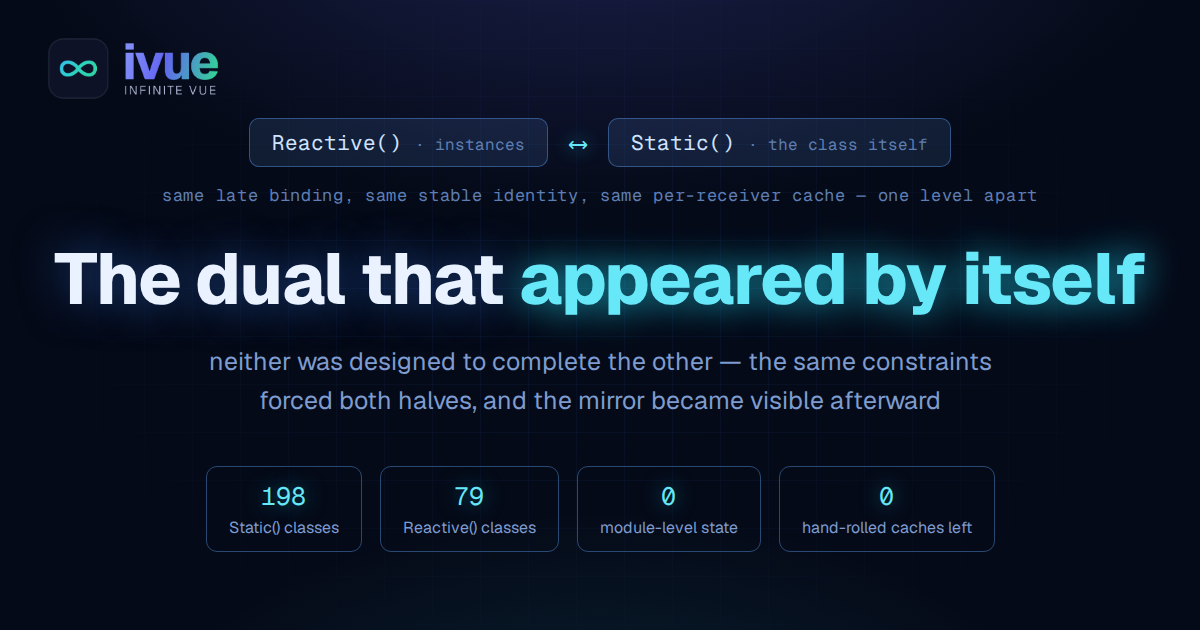
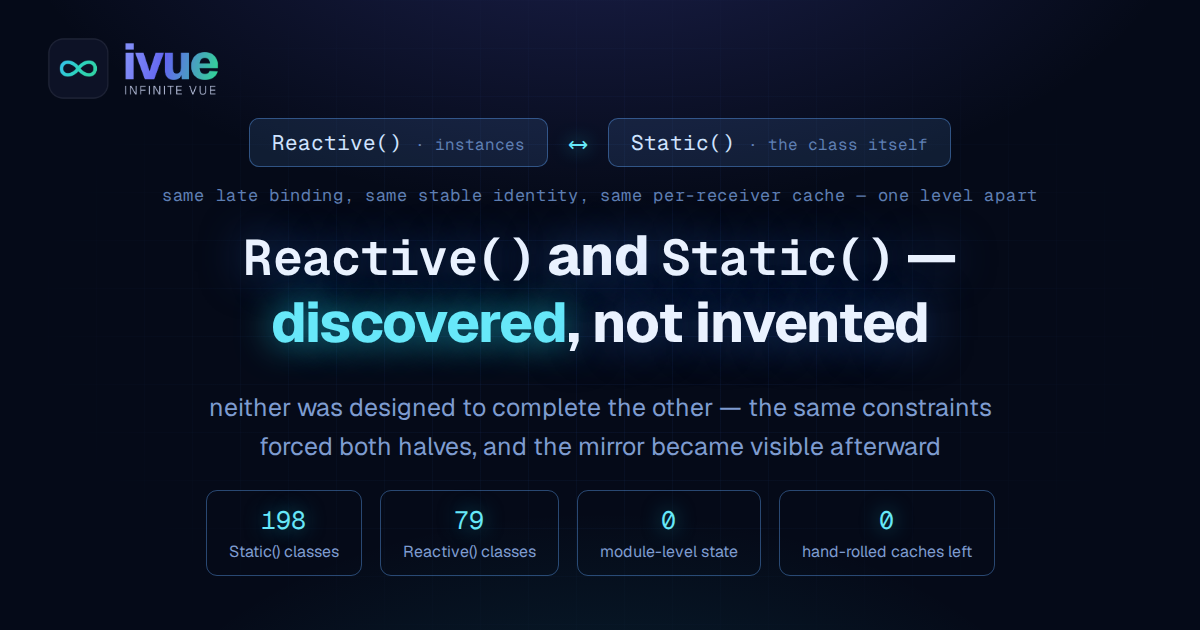
blog: retitled — Reactive() and Static(), discovered, not invented

diff --git a/.claude/skills/blog-banner/banners/the-dual-that-appeared.html b/.claude/skills/blog-banner/banners/the-dual-that-appeared.html
@@ -57,17 +57,21 @@
     font-size: 17px; color: #5f7fb3; letter-spacing: 0.04em;
   }
   .title {
-    position: absolute; top: 232px; width: 1200px; text-align: center;
-    font-size: 72px; font-weight: 750; color: #eaf2ff;
+    position: absolute; top: 222px; width: 1200px; text-align: center;
+    font-size: 56px; line-height: 1.2; font-weight: 750; color: #eaf2ff;
     text-shadow: 0 0 44px rgba(59, 130, 246, 0.5); letter-spacing: -0.015em;
   }
   .title .glow { color: #67e8f9; text-shadow: 0 0 36px rgba(34, 211, 238, 0.8); }
+  .title .mono {
+    font-family: 'Geist Mono', 'DejaVu Sans Mono', monospace;
+    font-weight: 600; font-size: 50px;
+  }
   .sub {
-    position: absolute; top: 342px; width: 1200px; text-align: center;
+    position: absolute; top: 388px; width: 1200px; text-align: center;
     font-size: 25px; color: #7e9cd0; line-height: 1.55;
   }
   .stats {
-    position: absolute; top: 466px; width: 1200px;
+    position: absolute; top: 490px; width: 1200px;
     display: flex; justify-content: center; gap: 18px;
   }
   .stat {
@@ -98,7 +102,7 @@
     <span class="half">Static() <span class="lvl">· the class itself</span></span>
   </div>
   <div class="dualnote">same late binding, same stable identity, same per-receiver cache — one level apart</div>
-  <div class="title">The dual that <span class="glow">appeared by itself</span></div>
+  <div class="title"><span class="mono">Reactive()</span> and <span class="mono">Static()</span> —<br/><span class="glow">discovered</span>, not invented</div>
   <div class="sub">neither was designed to complete the other — the same constraints<br/>forced both halves, and the mirror became visible afterward</div>
   <div class="stats">
     <div class="stat"><span class="n">198</span><span class="l">Static() classes</span></div>

diff --git a/docs_v2/blog/the-dual-that-appeared.md b/docs_v2/blog/the-dual-that-appeared.md
@@ -1,14 +1,14 @@
 ---
-title: 'The dual that appeared by itself'
+title: 'Reactive() and Static() — discovered, not invented'
 description: Reactive() and Static() look like a designed pair — one transform for instances, one for the class object, same late binding, same per-receiver caching, one level apart. Neither was designed to complete the other. The mirror emerged from the same constraints, and emergent duals are load-bearing.
 date: 2026-08
 ---
 
-# The dual that appeared by itself
+# Reactive() and Static() — discovered, not invented
 
 <BlogPostDate />
 
-![The dual that appeared by itself](/blog/the-dual-that-appeared.png)
+![Reactive() and Static() — discovered, not invented](/blog/the-dual-that-appeared.png)
 
 We did not set out to invent a dual.
 
